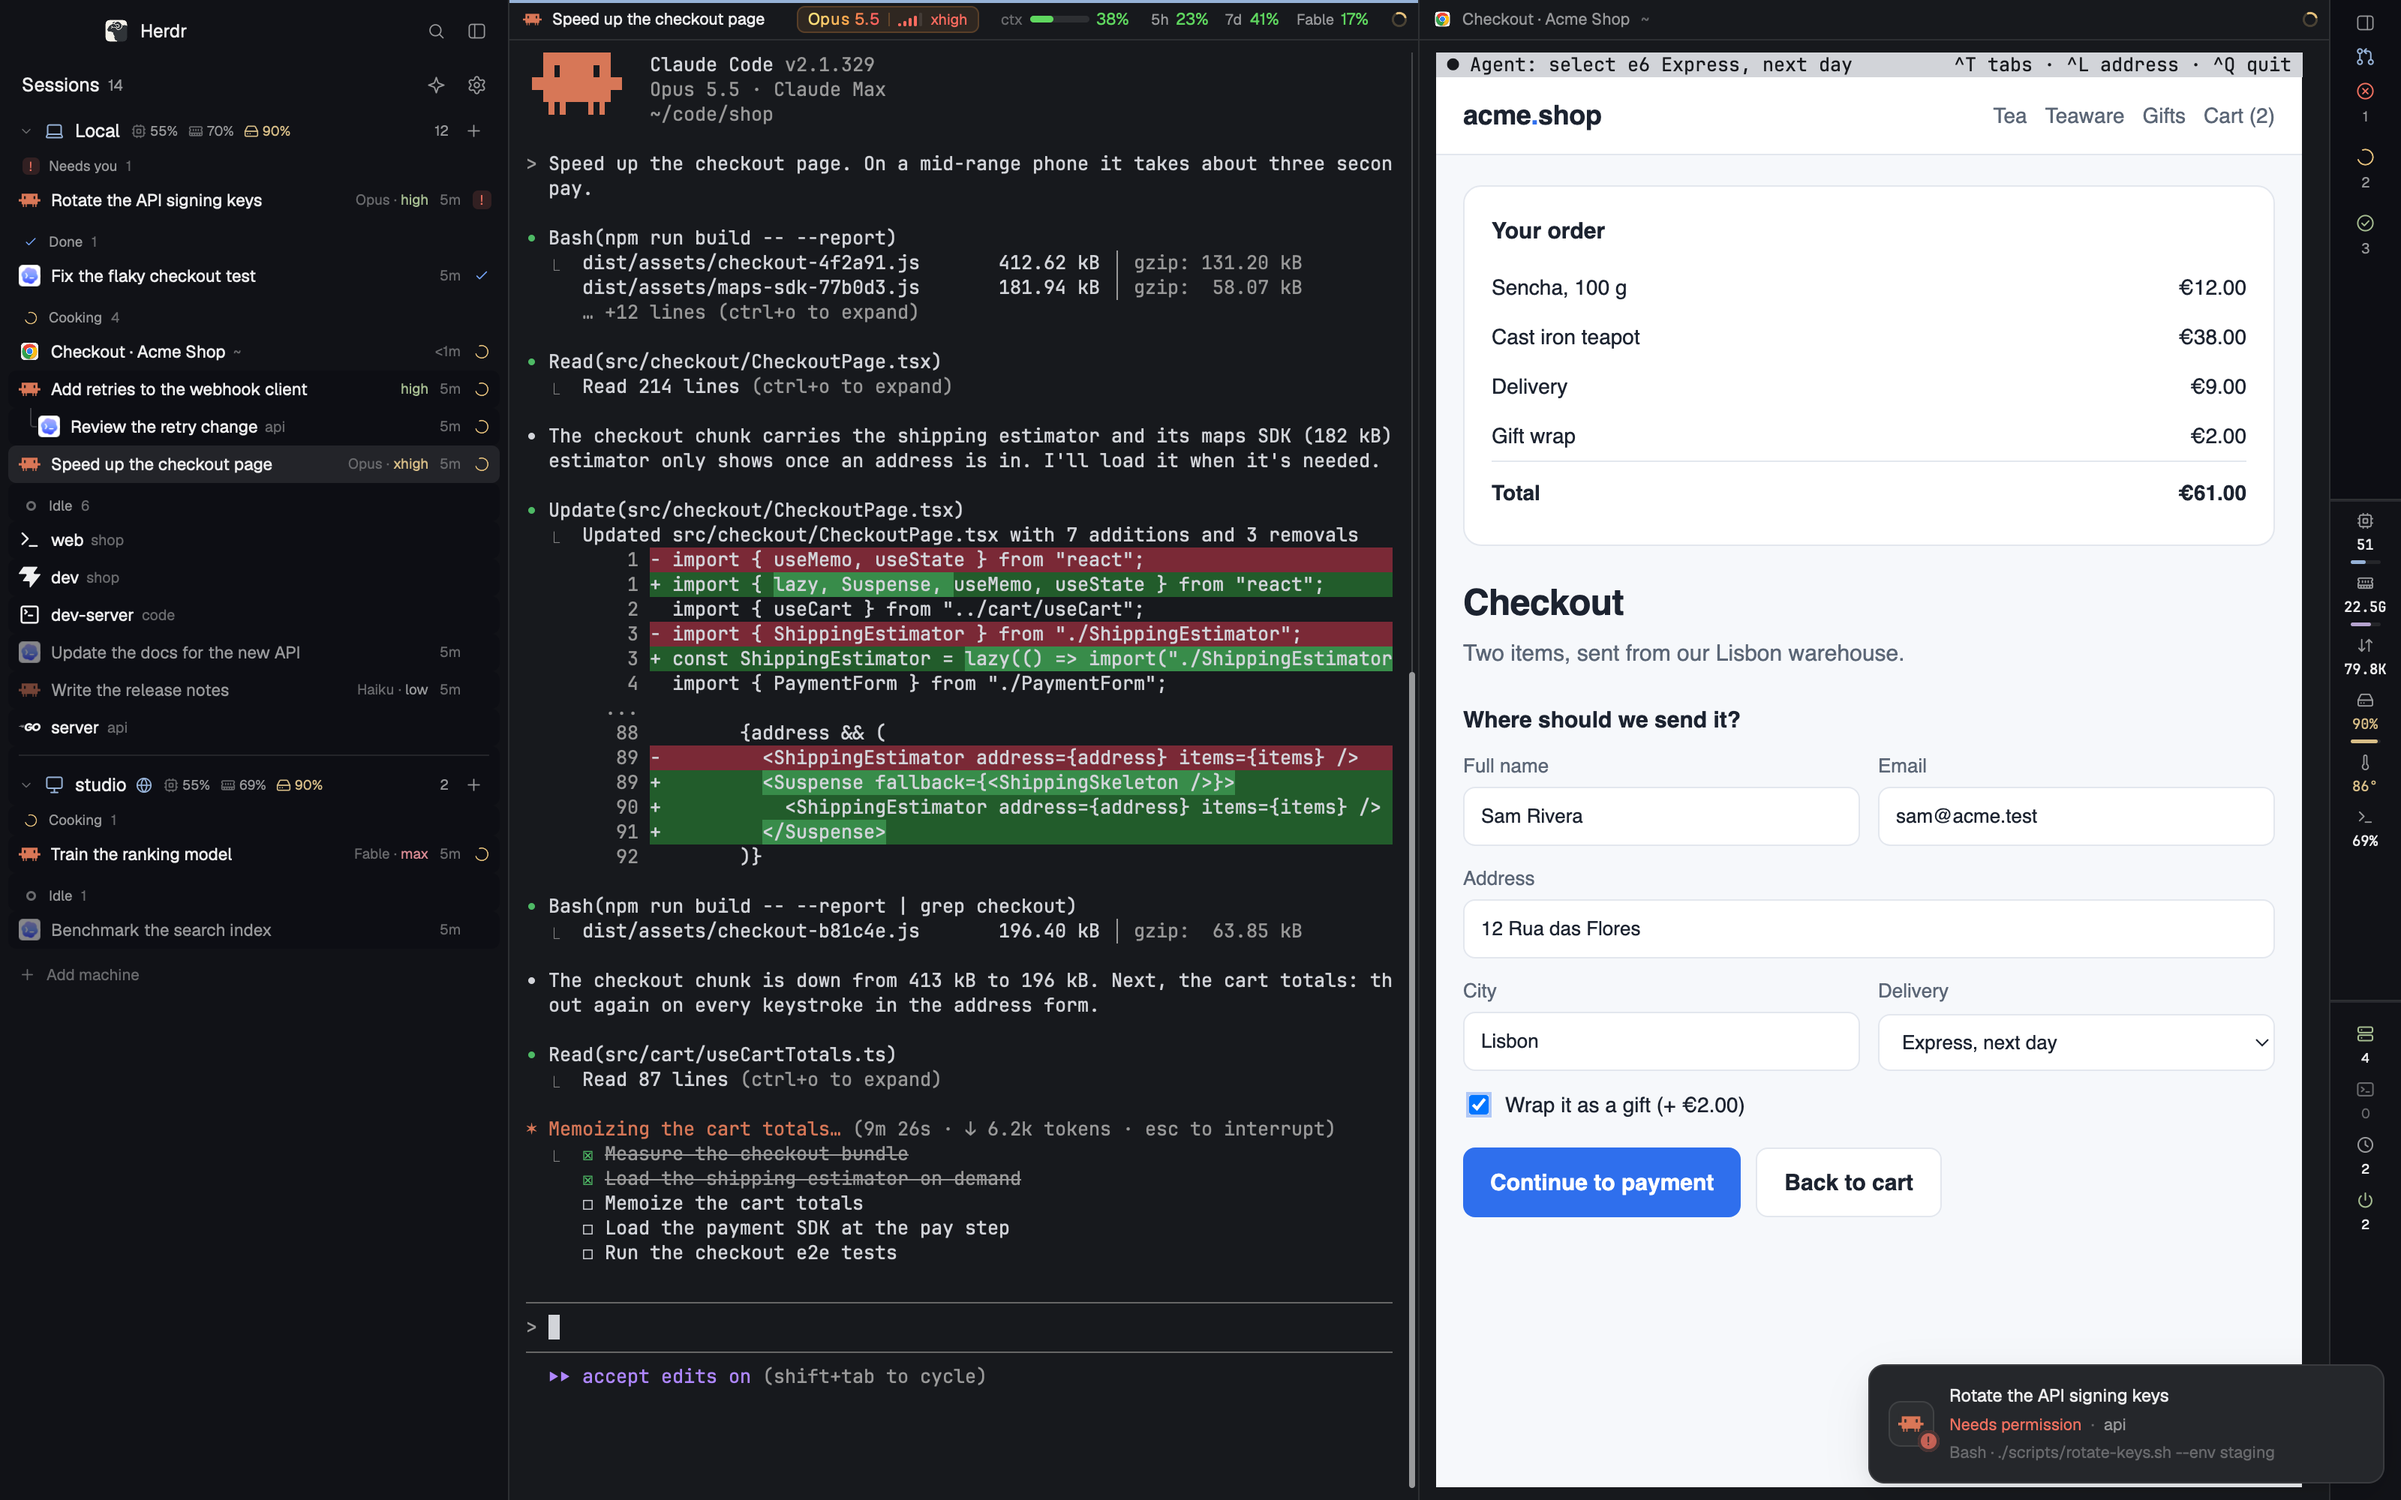
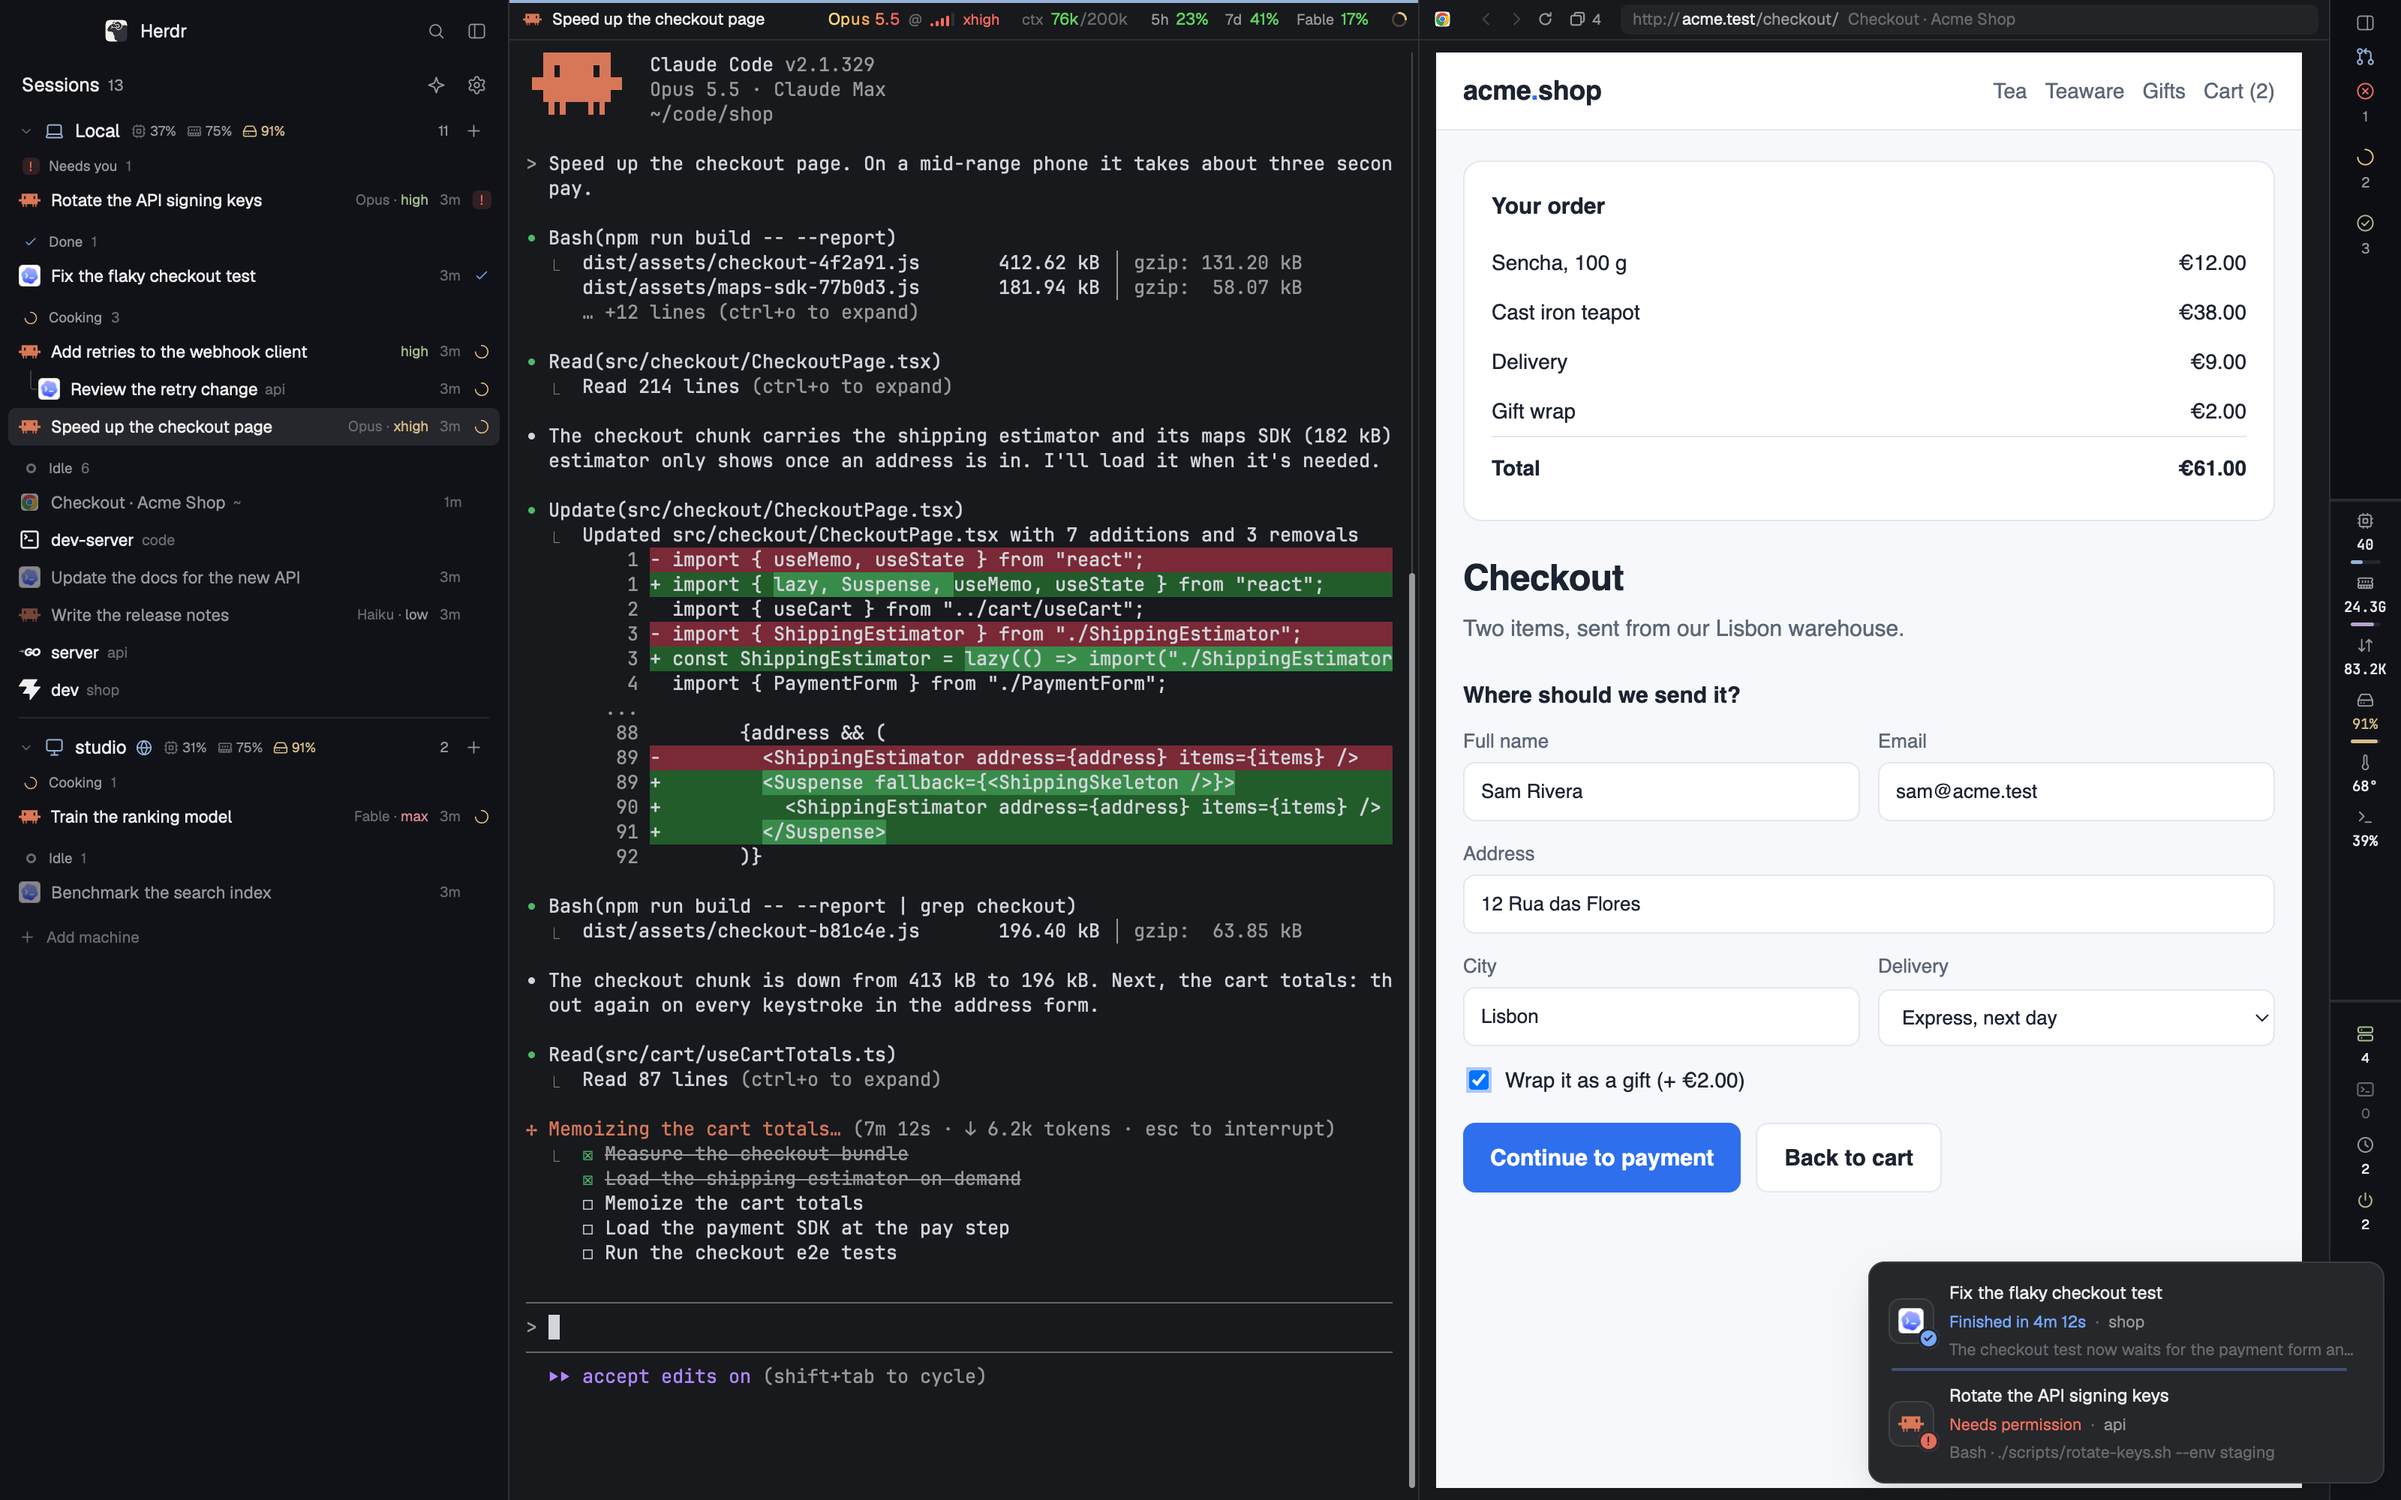
Take the README's pictures again with the new bar, the header and the list of tabs
The pictures still showed one line of reverse video. Taken again on a
showcase stage, whose pane header (pane-head) now draws Chrome's controls
with chrome-bar.js:

- preview.png: the Herdr window, with the buttons, the number of tabs and
  the address in the pane's header, and the page in the whole pane.
- demo.gif: the header says what the agent does while a shell types the
  commands.
- tabs.gif: the viewer run with `--bar`, for the bar and the list of tabs
  every other terminal gets: the buttons, the address as a field, "3 tabs".
- tabs-list.png, new: Chrome's tabs in the list the app draws over the
  window, asked for as Ctrl+T in the pane asks for it.

docs/demo/shots.sh takes the fourth (`ONLY=list`) and opens the three tabs
in one place for both pictures that need them. The README's captions say
what the pictures show now, and "See it work" has the list.

In the list, a site's tile is a solid colour with a white letter, the same
in a light theme and a dark one: tinted with the theme's own colours it was
grey on grey.

diff --git a/herdr/tabs/main.js b/herdr/tabs/main.js
@@ -12,6 +12,7 @@ import { v_flex, h_flex, InputState, Input, ScrollHandle } from "gpui-base";
 import { exec, theme, props, closeOverlay, checking } from "herdr";
 
 const ROW = 44, SHOWN = 9;
+const TILES = ["#5b8def", "#22a99a", "#e3814f", "#8b7cf6", "#3fae6a", "#d9649a", "#c9a227", "#4aa3c7"];
 
 /** A tab's address as a site and what follows it, as a browser's bar writes it. */
 function parts(url) {
@@ -118,10 +119,10 @@ export default class ChromeTabs extends View {
 
   tile(t, site) {
     const name = bare(site);
-    const colors = [t.ansi4, t.ansi2, t.ansi3, t.ansi5, t.ansi6, t.ansi1];
-    const color = name ? colors[hash(name) % colors.length] : t.dim;
+    // A site keeps its colour: the same in a light theme and a dark one, as a site's own icon is.
+    const color = name ? TILES[hash(name) % TILES.length] : t.dim;
     return h_flex().size(26).flex_none().rounded(7).items_center().justify_center()
-      .bg(color + "2b").text_color(color).text_size(12).font_bold()
+      .bg(color).text_color("#ffffff").text_size(12.5).font_bold()
       .child(([...name][0] ?? "·").toUpperCase());
   }
 

diff --git a/README.md b/README.md
@@ -26,7 +26,7 @@
   <a href="#security">Security</a>
 </p>
 
-![A Herdr window. In the middle, Claude Code at work on "Speed up the checkout page". To its right, the Chrome pane: a bar that says "Agent: select e6 Express, next day", and under it the checkout page of a made-up tea shop, drawn as in a browser, with the order's total, a form filled in with a name, an email, an address and a city, the delivery set to Express and a ticked gift-wrap box. The sessions sidebar on the left lists the pane as "Checkout · Acme Shop" with Chrome's icon, among the agents at work](docs/media/preview.png)
+![A Herdr window. In the middle, Claude Code at work on "Speed up the checkout page". To its right, the Chrome pane: its header has back, forward and reload buttons, the number of Chrome's tabs and the page's address in a field, and under it is the checkout page of a made-up tea shop, drawn as in a browser, with the order's total, a form filled in with a name, an email, an address and a city, the delivery set to Express and a ticked gift-wrap box. The sessions sidebar on the left lists the pane as "Checkout · Acme Shop" with Chrome's icon, among the agents at work](docs/media/preview.png)
 
 <p align="center"><sub>In <a href="https://herdr.dev">Herdr</a>, the pane opens beside the agent that asked for it and is listed with the agents. It opens beside the agent in <a href="#see-it-work">Rex and Tern</a> too. The shop, the sessions and the people in these pictures are made up.</sub></p>
 
@@ -60,12 +60,17 @@ and you watch it happen.
 **An agent drives, you watch.** It asks for the page as text, acts on a control by its ref, and
 is told only what changed.
 
-![A shell on the left, the Chrome pane on the right. "chrome-pane open http://acme.test/checkout/" opens the pane with the shop's checkout and prints the page's controls, each with a ref. "chrome-pane fill e2 Sam Rivera" writes the name into the form and prints the one line that changed. "chrome-pane select e6 Express, next day" changes the delivery and the order's total. "chrome-pane click" on Continue to payment prints the page's new message: Still needed: email, address, city](docs/media/demo.gif)
+![A shell on the left, the Chrome pane on the right. "chrome-pane open http://acme.test/checkout/" opens the pane with the shop's checkout and prints the page's controls, each with a ref. The pane's header says what the agent does, "Agent: fill e2 Sam Rivera", where the page's address was. "chrome-pane fill e2 Sam Rivera" writes the name into the form and prints the one line that changed. "chrome-pane select e6 Express, next day" changes the delivery and the order's total. "chrome-pane click" on Continue to payment prints the page's new message: Still needed: email, address, city](docs/media/demo.gif)
 
 **You drive.** It is a browser: click, scroll, type, paste, go back, pick another of Chrome's
 tabs, type an address.
 
-![The Chrome pane alone, showing the shop's checkout. Ctrl+T replaces the page with the list of Chrome's three open tabs; the orders tab is picked and the page "Your orders", signed in as Sam Rivera, is drawn. Ctrl+L turns the bar into "Go to:", an address is entered and the shop's front page is drawn. Alt+Left goes back to the orders](docs/media/tabs.gif)
+![The Chrome pane alone, showing the shop's checkout under a bar with back, forward and reload buttons, the page's address, "3 tabs" and the keys. Ctrl+T replaces the page with the list of Chrome's three open tabs; the orders tab is picked and the page "Your orders", signed in as Sam Rivera, is drawn. Ctrl+L makes the address a field with the address selected, another is entered and the shop's front page is drawn. Alt+Left goes back to the orders](docs/media/tabs.gif)
+
+**In Herdr, the app draws the controls.** The pane's header has the buttons and the address,
+and Chrome's tabs are a list over the window ([how](#in-a-multiplexer)).
+
+![The Herdr window, with Claude Code on the left and the Chrome pane on the right. The pane's header has back, forward and reload buttons, a button with the number of tabs, 3, and the address acme.test/checkout with the page's title. Over the window, a list: a field that says "Find a tab, or type an address" and "3 tabs", then Chrome's three tabs, each with a coloured tile, its title and its address (the shop's front page, "Your orders" and the checkout, which is marked "In this pane"), a row "New tab", and the keys: move, Enter show, Ctrl+D close tab, Esc leave](docs/media/tabs-list.png)
 
 **In Rex and in Tern.** The same commands, typed in a shell of each. The pane opens to the
 right of the shell, in the same tab, and nothing has to be set up for it: chrome-pane asks Rex

diff --git a/docs/demo/README.md b/docs/demo/README.md
@@ -5,7 +5,7 @@ made-up world, from the `herdr-showcase` kit), with a headless Chrome that has a
 and is served the made-up shop of `site/` as `http://acme.test`.
 
 ```sh
-sh docs/demo/shots.sh          # builds a stage, takes docs/media/preview.png, demo.gif and tabs.gif, takes it all down
+sh docs/demo/shots.sh          # builds a stage, takes docs/media/preview.png, demo.gif, tabs.gif and tabs-list.png, takes it all down
 ```
 
 - `site/` is the shop: a checkout page whose total and messages change as its form does, a
@@ -15,6 +15,10 @@ sh docs/demo/shots.sh          # builds a stage, takes docs/media/preview.png, d
 - `shots.sh [stage]` takes the pictures. The commands in `demo.gif` are typed into a real shell
   and their output is what chrome-pane printed; the keys in `tabs.gif` are pressed in a real
   viewer. `ONLY=tabs` takes one of them.
+- The stage's pane header is the kit's (`pane-head`, from its repository), which draws Chrome's
+  controls with `chrome-bar.js`: `preview.png`, `demo.gif` and `tabs-list.png` show them, and
+  `tabs-list.png` the app's list of tabs. `tabs.gif` runs the viewer with `--bar`, for the bar
+  and the list every other terminal gets.
 
 The pictures of Rex and Tern have no kit: `hosts.sh` builds a smaller stage of its own for
 each, a folder `/tmp/cph.XXXXXX` with a home, the same headless Chrome and shop, and a second
